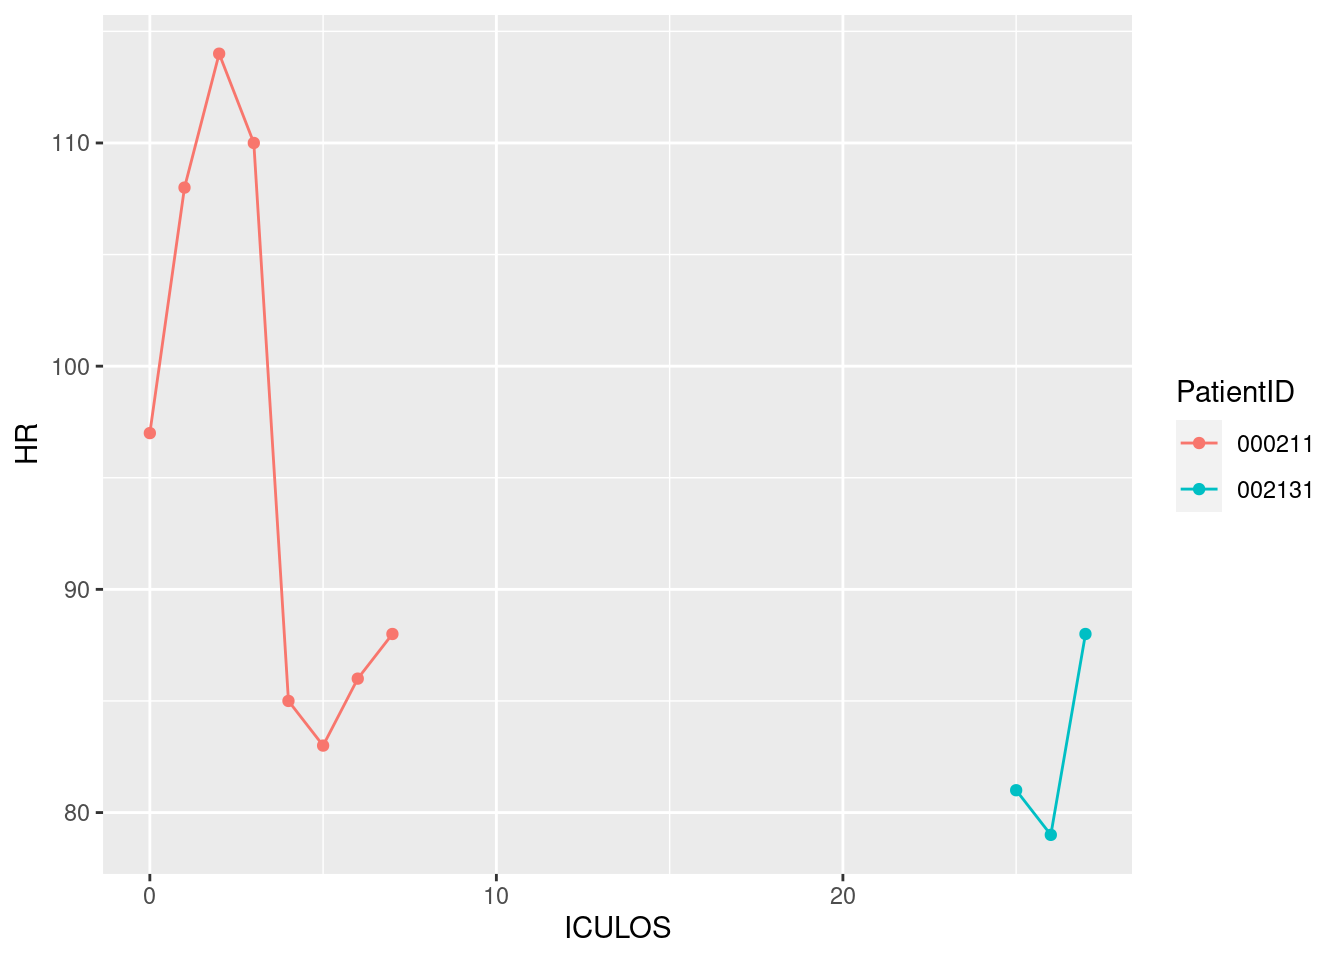
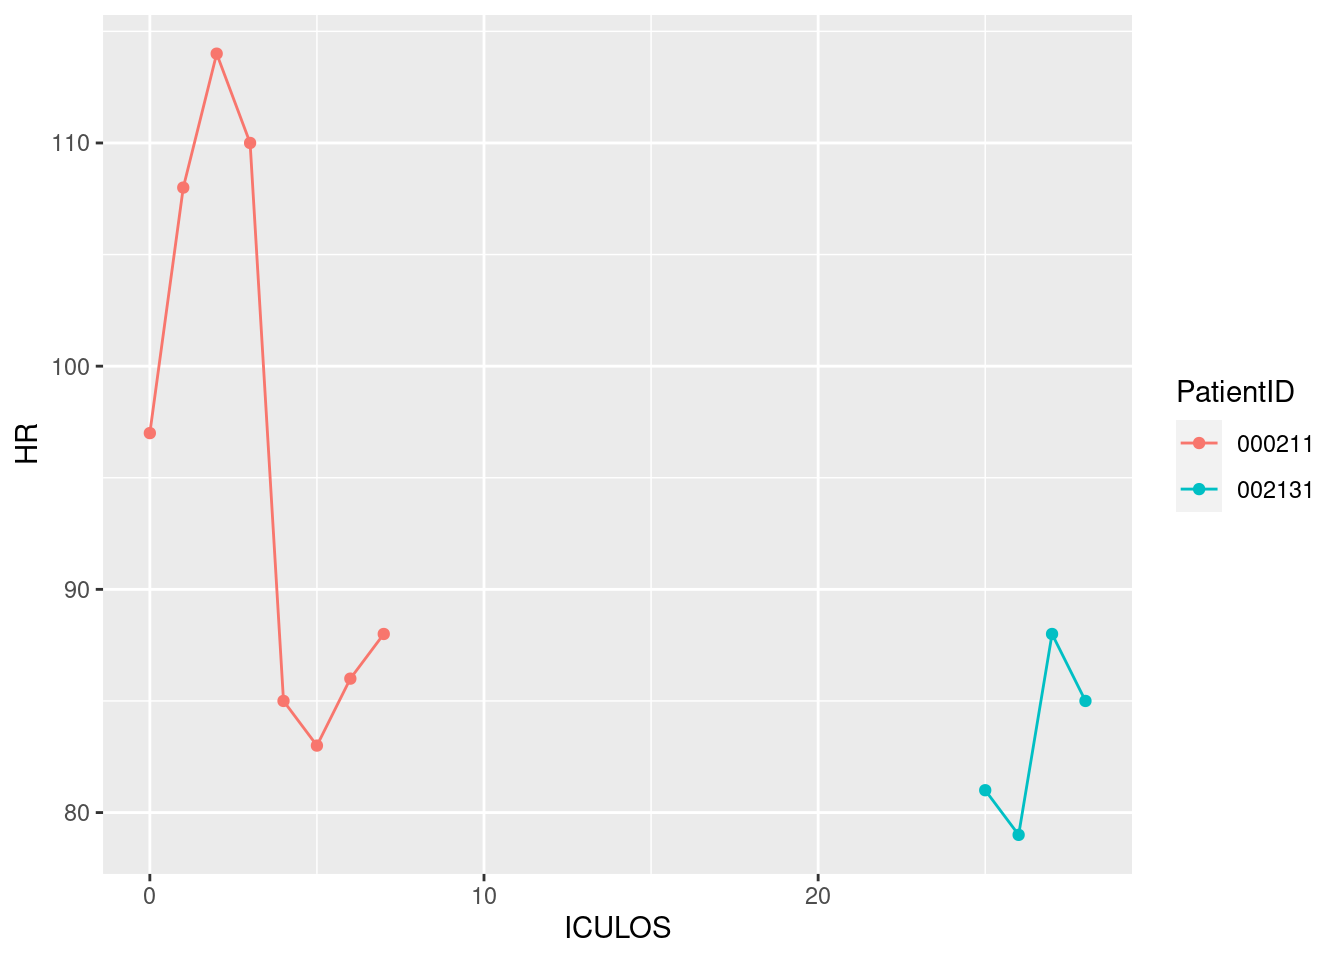
Updated report

diff --git a/a7qmd.html b/a7qmd.html
@@ -80,7 +80,7 @@ ul.task-list li input[type="checkbox"] {
 <h2 class="anchored" data-anchor-id="current-date-and-time">Current date and time</h2>
 <div class="cell">
 <div class="cell-output cell-output-stdout">
-<pre><code>[1] "2023-04-10 21:13:59 UTC"</code></pre>
+<pre><code>[1] "2023-04-10 22:15:14 UTC"</code></pre>
 </div>
 </div>
 </section>
@@ -106,9 +106,9 @@ ul.task-list li input[type="checkbox"] {
 </tr>
 <tr class="even">
 <td style="text-align: left;">002131</td>
-<td style="text-align: right;">88</td>
+<td style="text-align: right;">85</td>
 <td style="text-align: right;">NA</td>
-<td style="text-align: right;">26</td>
+<td style="text-align: right;">27</td>
 </tr>
 </tbody>
 </table>
@@ -151,9 +151,9 @@ ul.task-list li input[type="checkbox"] {
 </tr>
 <tr class="even">
 <td style="text-align: left;">000330</td>
-<td style="text-align: right;">-5</td>
+<td style="text-align: right;">2</td>
 <td style="text-align: right;">NA</td>
-<td style="text-align: right;">-3</td>
+<td style="text-align: right;">6</td>
 </tr>
 <tr class="odd">
 <td style="text-align: left;">000332</td>
@@ -175,19 +175,19 @@ ul.task-list li input[type="checkbox"] {
 </tr>
 <tr class="even">
 <td style="text-align: left;">000693</td>
+<td style="text-align: right;">9</td>
 <td style="text-align: right;">NA</td>
-<td style="text-align: right;">NA</td>
-<td style="text-align: right;">NA</td>
+<td style="text-align: right;">-2</td>
 </tr>
 <tr class="odd">
 <td style="text-align: left;">000878</td>
-<td style="text-align: right;">3</td>
-<td style="text-align: right;">0.10</td>
-<td style="text-align: right;">1</td>
+<td style="text-align: right;">-4</td>
+<td style="text-align: right;">0.00</td>
+<td style="text-align: right;">-1</td>
 </tr>
 <tr class="even">
 <td style="text-align: left;">000939</td>
-<td style="text-align: right;">-9</td>
+<td style="text-align: right;">-1</td>
 <td style="text-align: right;">NA</td>
 <td style="text-align: right;">-1</td>
 </tr>
@@ -211,9 +211,9 @@ ul.task-list li input[type="checkbox"] {
 </tr>
 <tr class="even">
 <td style="text-align: left;">001708</td>
-<td style="text-align: right;">-3</td>
-<td style="text-align: right;">0.00</td>
-<td style="text-align: right;">-5</td>
+<td style="text-align: right;">1</td>
+<td style="text-align: right;">-0.30</td>
+<td style="text-align: right;">1</td>
 </tr>
 <tr class="odd">
 <td style="text-align: left;">001728</td>
@@ -223,75 +223,75 @@ ul.task-list li input[type="checkbox"] {
 </tr>
 <tr class="even">
 <td style="text-align: left;">001842</td>
-<td style="text-align: right;">-1</td>
+<td style="text-align: right;">-4</td>
 <td style="text-align: right;">NA</td>
-<td style="text-align: right;">6</td>
+<td style="text-align: right;">-2</td>
 </tr>
 <tr class="odd">
 <td style="text-align: left;">002131</td>
-<td style="text-align: right;">9</td>
-<td style="text-align: right;">NA</td>
 <td style="text-align: right;">-3</td>
+<td style="text-align: right;">NA</td>
+<td style="text-align: right;">1</td>
 </tr>
 <tr class="even">
 <td style="text-align: left;">002248</td>
-<td style="text-align: right;">5</td>
+<td style="text-align: right;">2</td>
 <td style="text-align: right;">NA</td>
 <td style="text-align: right;">NA</td>
 </tr>
 <tr class="odd">
 <td style="text-align: left;">002321</td>
-<td style="text-align: right;">0</td>
-<td style="text-align: right;">NA</td>
 <td style="text-align: right;">1</td>
+<td style="text-align: right;">NA</td>
+<td style="text-align: right;">3</td>
 </tr>
 <tr class="even">
 <td style="text-align: left;">002434</td>
 <td style="text-align: right;">0</td>
 <td style="text-align: right;">NA</td>
-<td style="text-align: right;">5</td>
+<td style="text-align: right;">-4</td>
 </tr>
 <tr class="odd">
 <td style="text-align: left;">002572</td>
-<td style="text-align: right;">-1</td>
-<td style="text-align: right;">NA</td>
-<td style="text-align: right;">0</td>
-</tr>
-<tr class="even">
-<td style="text-align: left;">002738</td>
-<td style="text-align: right;">-5</td>
-<td style="text-align: right;">NA</td>
-<td style="text-align: right;">-1</td>
-</tr>
-<tr class="odd">
-<td style="text-align: left;">003083</td>
-<td style="text-align: right;">4</td>
-<td style="text-align: right;">NA</td>
-<td style="text-align: right;">0</td>
-</tr>
-<tr class="even">
-<td style="text-align: left;">003684</td>
-<td style="text-align: right;">-2</td>
-<td style="text-align: right;">NA</td>
-<td style="text-align: right;">0</td>
-</tr>
-<tr class="odd">
-<td style="text-align: left;">003690</td>
-<td style="text-align: right;">0</td>
-<td style="text-align: right;">NA</td>
-<td style="text-align: right;">-2</td>
-</tr>
-<tr class="even">
-<td style="text-align: left;">003718</td>
-<td style="text-align: right;">7</td>
+<td style="text-align: right;">8</td>
 <td style="text-align: right;">NA</td>
 <td style="text-align: right;">2</td>
 </tr>
+<tr class="even">
+<td style="text-align: left;">002738</td>
+<td style="text-align: right;">6</td>
+<td style="text-align: right;">NA</td>
+<td style="text-align: right;">5</td>
+</tr>
+<tr class="odd">
+<td style="text-align: left;">003083</td>
+<td style="text-align: right;">2</td>
+<td style="text-align: right;">NA</td>
+<td style="text-align: right;">-1</td>
+</tr>
+<tr class="even">
+<td style="text-align: left;">003684</td>
+<td style="text-align: right;">-8</td>
+<td style="text-align: right;">NA</td>
+<td style="text-align: right;">-5</td>
+</tr>
+<tr class="odd">
+<td style="text-align: left;">003690</td>
+<td style="text-align: right;">NA</td>
+<td style="text-align: right;">NA</td>
+<td style="text-align: right;">NA</td>
+</tr>
+<tr class="even">
+<td style="text-align: left;">003718</td>
+<td style="text-align: right;">1</td>
+<td style="text-align: right;">NA</td>
+<td style="text-align: right;">0</td>
+</tr>
 <tr class="odd">
 <td style="text-align: left;">003740</td>
-<td style="text-align: right;">-6</td>
+<td style="text-align: right;">6</td>
 <td style="text-align: right;">NA</td>
-<td style="text-align: right;">-4</td>
+<td style="text-align: right;">-3</td>
 </tr>
 <tr class="even">
 <td style="text-align: left;">003777</td>
@@ -301,9 +301,9 @@ ul.task-list li input[type="checkbox"] {
 </tr>
 <tr class="odd">
 <td style="text-align: left;">004131</td>
-<td style="text-align: right;">2</td>
-<td style="text-align: right;">NA</td>
 <td style="text-align: right;">0</td>
+<td style="text-align: right;">NA</td>
+<td style="text-align: right;">4</td>
 </tr>
 <tr class="even">
 <td style="text-align: left;">004389</td>
@@ -349,15 +349,15 @@ ul.task-list li input[type="checkbox"] {
 </tr>
 <tr class="odd">
 <td style="text-align: left;">006938</td>
-<td style="text-align: right;">5</td>
-<td style="text-align: right;">0.05</td>
+<td style="text-align: right;">1</td>
+<td style="text-align: right;">0.30</td>
 <td style="text-align: right;">NA</td>
 </tr>
 <tr class="even">
 <td style="text-align: left;">007154</td>
-<td style="text-align: right;">25</td>
+<td style="text-align: right;">-4</td>
 <td style="text-align: right;">NA</td>
-<td style="text-align: right;">0</td>
+<td style="text-align: right;">-3</td>
 </tr>
 <tr class="odd">
 <td style="text-align: left;">007365</td>
@@ -367,9 +367,9 @@ ul.task-list li input[type="checkbox"] {
 </tr>
 <tr class="even">
 <td style="text-align: left;">008070</td>
-<td style="text-align: right;">-4</td>
+<td style="text-align: right;">4</td>
 <td style="text-align: right;">NA</td>
-<td style="text-align: right;">2</td>
+<td style="text-align: right;">-1</td>
 </tr>
 <tr class="odd">
 <td style="text-align: left;">008496</td>
@@ -379,13 +379,13 @@ ul.task-list li input[type="checkbox"] {
 </tr>
 <tr class="even">
 <td style="text-align: left;">008526</td>
-<td style="text-align: right;">4</td>
+<td style="text-align: right;">7</td>
 <td style="text-align: right;">NA</td>
-<td style="text-align: right;">-1</td>
+<td style="text-align: right;">-2</td>
 </tr>
 <tr class="odd">
 <td style="text-align: left;">008652</td>
-<td style="text-align: right;">-3</td>
+<td style="text-align: right;">-13</td>
 <td style="text-align: right;">-0.25</td>
 <td style="text-align: right;">0</td>
 </tr>
@@ -397,21 +397,21 @@ ul.task-list li input[type="checkbox"] {
 </tr>
 <tr class="odd">
 <td style="text-align: left;">008907</td>
-<td style="text-align: right;">0</td>
+<td style="text-align: right;">-8</td>
 <td style="text-align: right;">NA</td>
-<td style="text-align: right;">-2</td>
+<td style="text-align: right;">0</td>
 </tr>
 <tr class="even">
 <td style="text-align: left;">008916</td>
-<td style="text-align: right;">3</td>
+<td style="text-align: right;">4</td>
 <td style="text-align: right;">NA</td>
-<td style="text-align: right;">-1</td>
+<td style="text-align: right;">0</td>
 </tr>
 <tr class="odd">
 <td style="text-align: left;">009179</td>
-<td style="text-align: right;">13</td>
+<td style="text-align: right;">-10</td>
 <td style="text-align: right;">NA</td>
-<td style="text-align: right;">5</td>
+<td style="text-align: right;">-3</td>
 </tr>
 <tr class="even">
 <td style="text-align: left;">009185</td>
@@ -421,9 +421,9 @@ ul.task-list li input[type="checkbox"] {
 </tr>
 <tr class="odd">
 <td style="text-align: left;">009245</td>
-<td style="text-align: right;">-6</td>
-<td style="text-align: right;">NA</td>
 <td style="text-align: right;">-2</td>
+<td style="text-align: right;">NA</td>
+<td style="text-align: right;">0</td>
 </tr>
 <tr class="even">
 <td style="text-align: left;">009324</td>
@@ -433,9 +433,9 @@ ul.task-list li input[type="checkbox"] {
 </tr>
 <tr class="odd">
 <td style="text-align: left;">009343</td>
-<td style="text-align: right;">-29</td>
-<td style="text-align: right;">NA</td>
-<td style="text-align: right;">-2</td>
+<td style="text-align: right;">-6</td>
+<td style="text-align: right;">-0.56</td>
+<td style="text-align: right;">1</td>
 </tr>
 <tr class="even">
 <td style="text-align: left;">009453</td>
